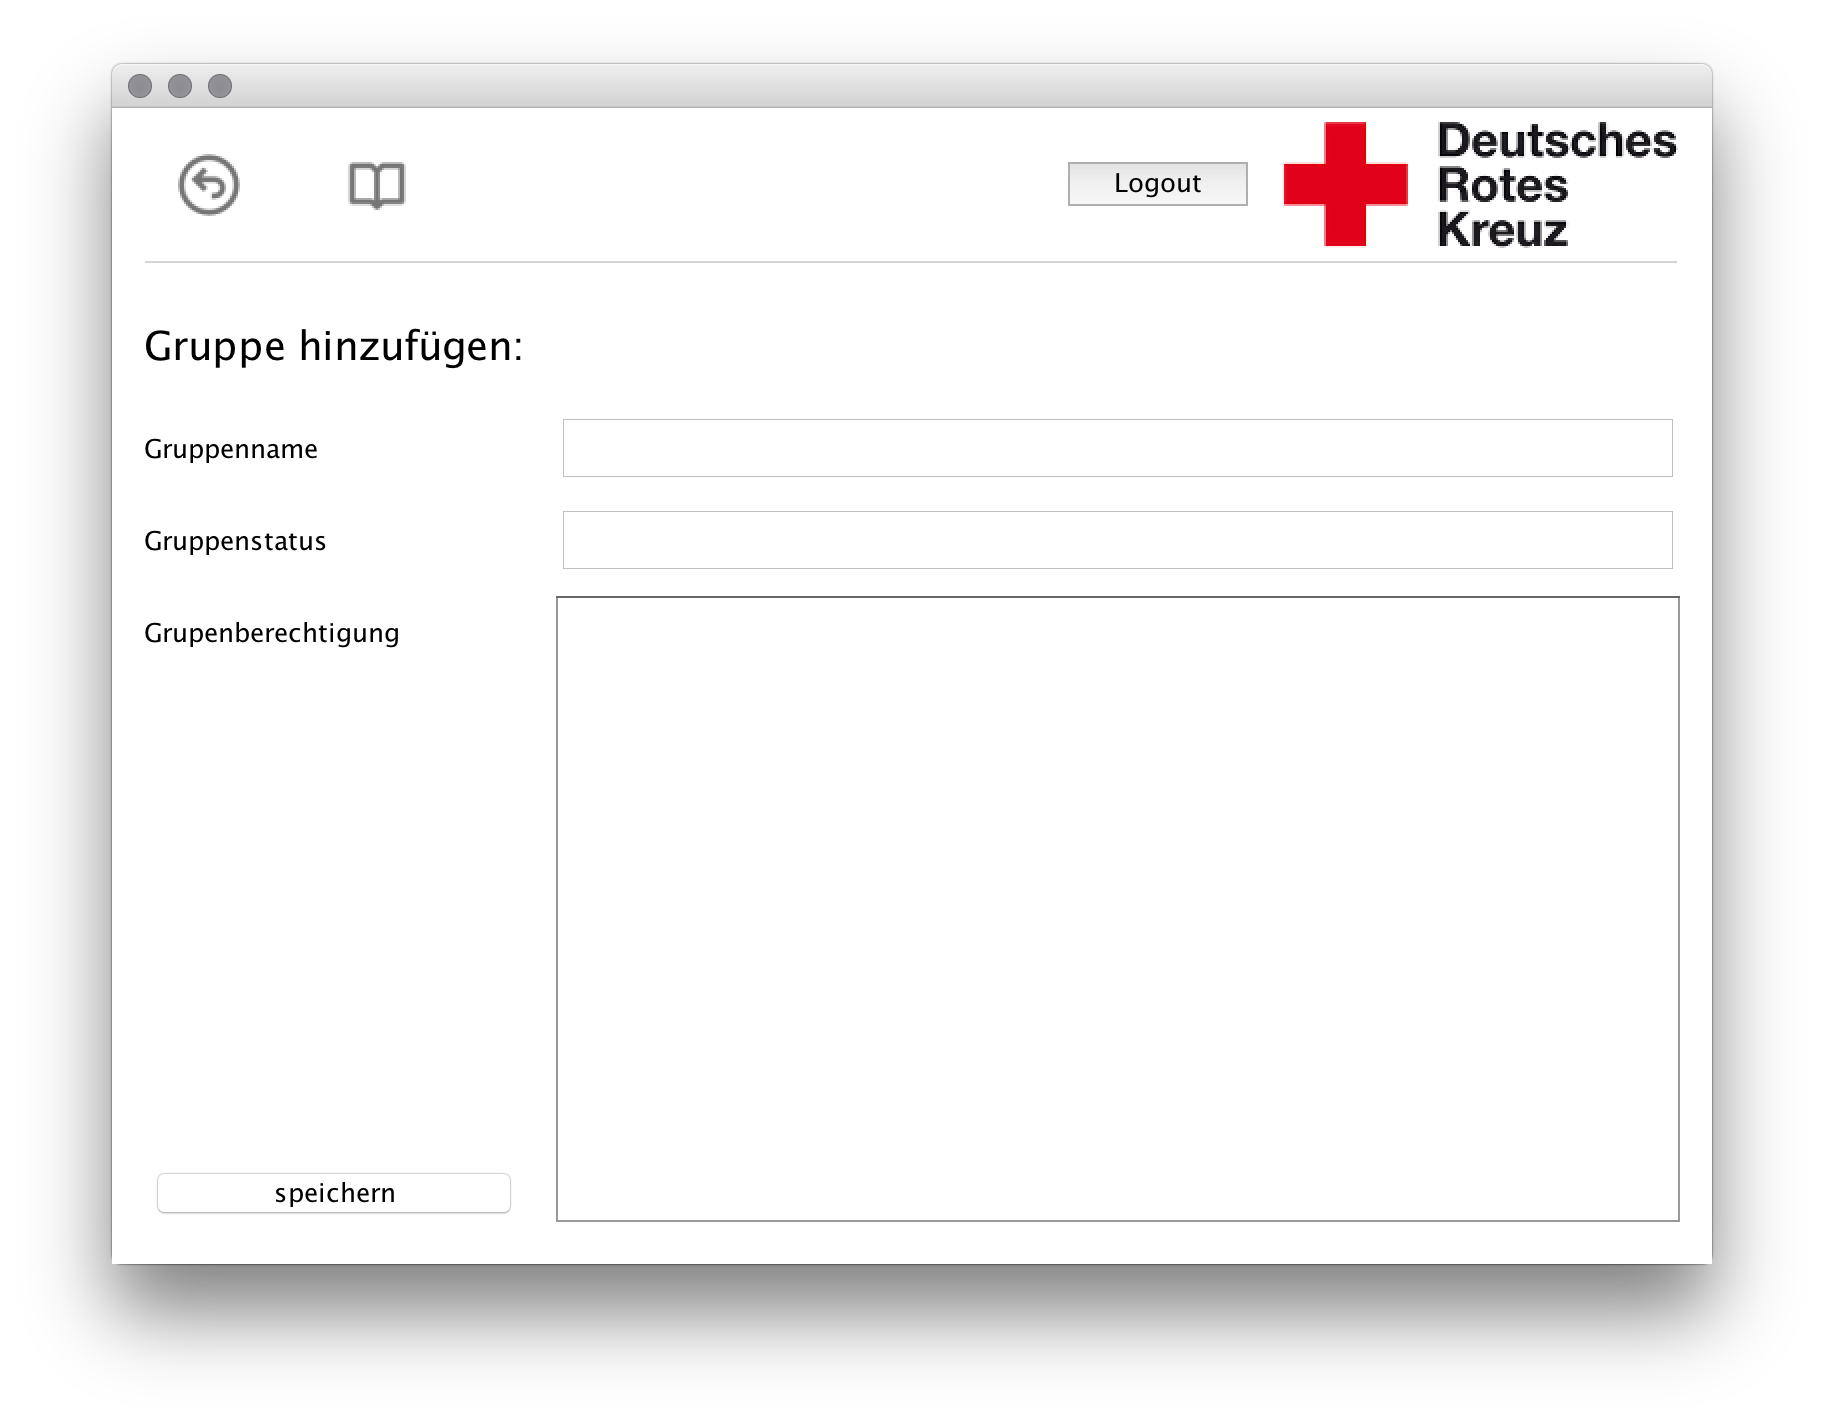
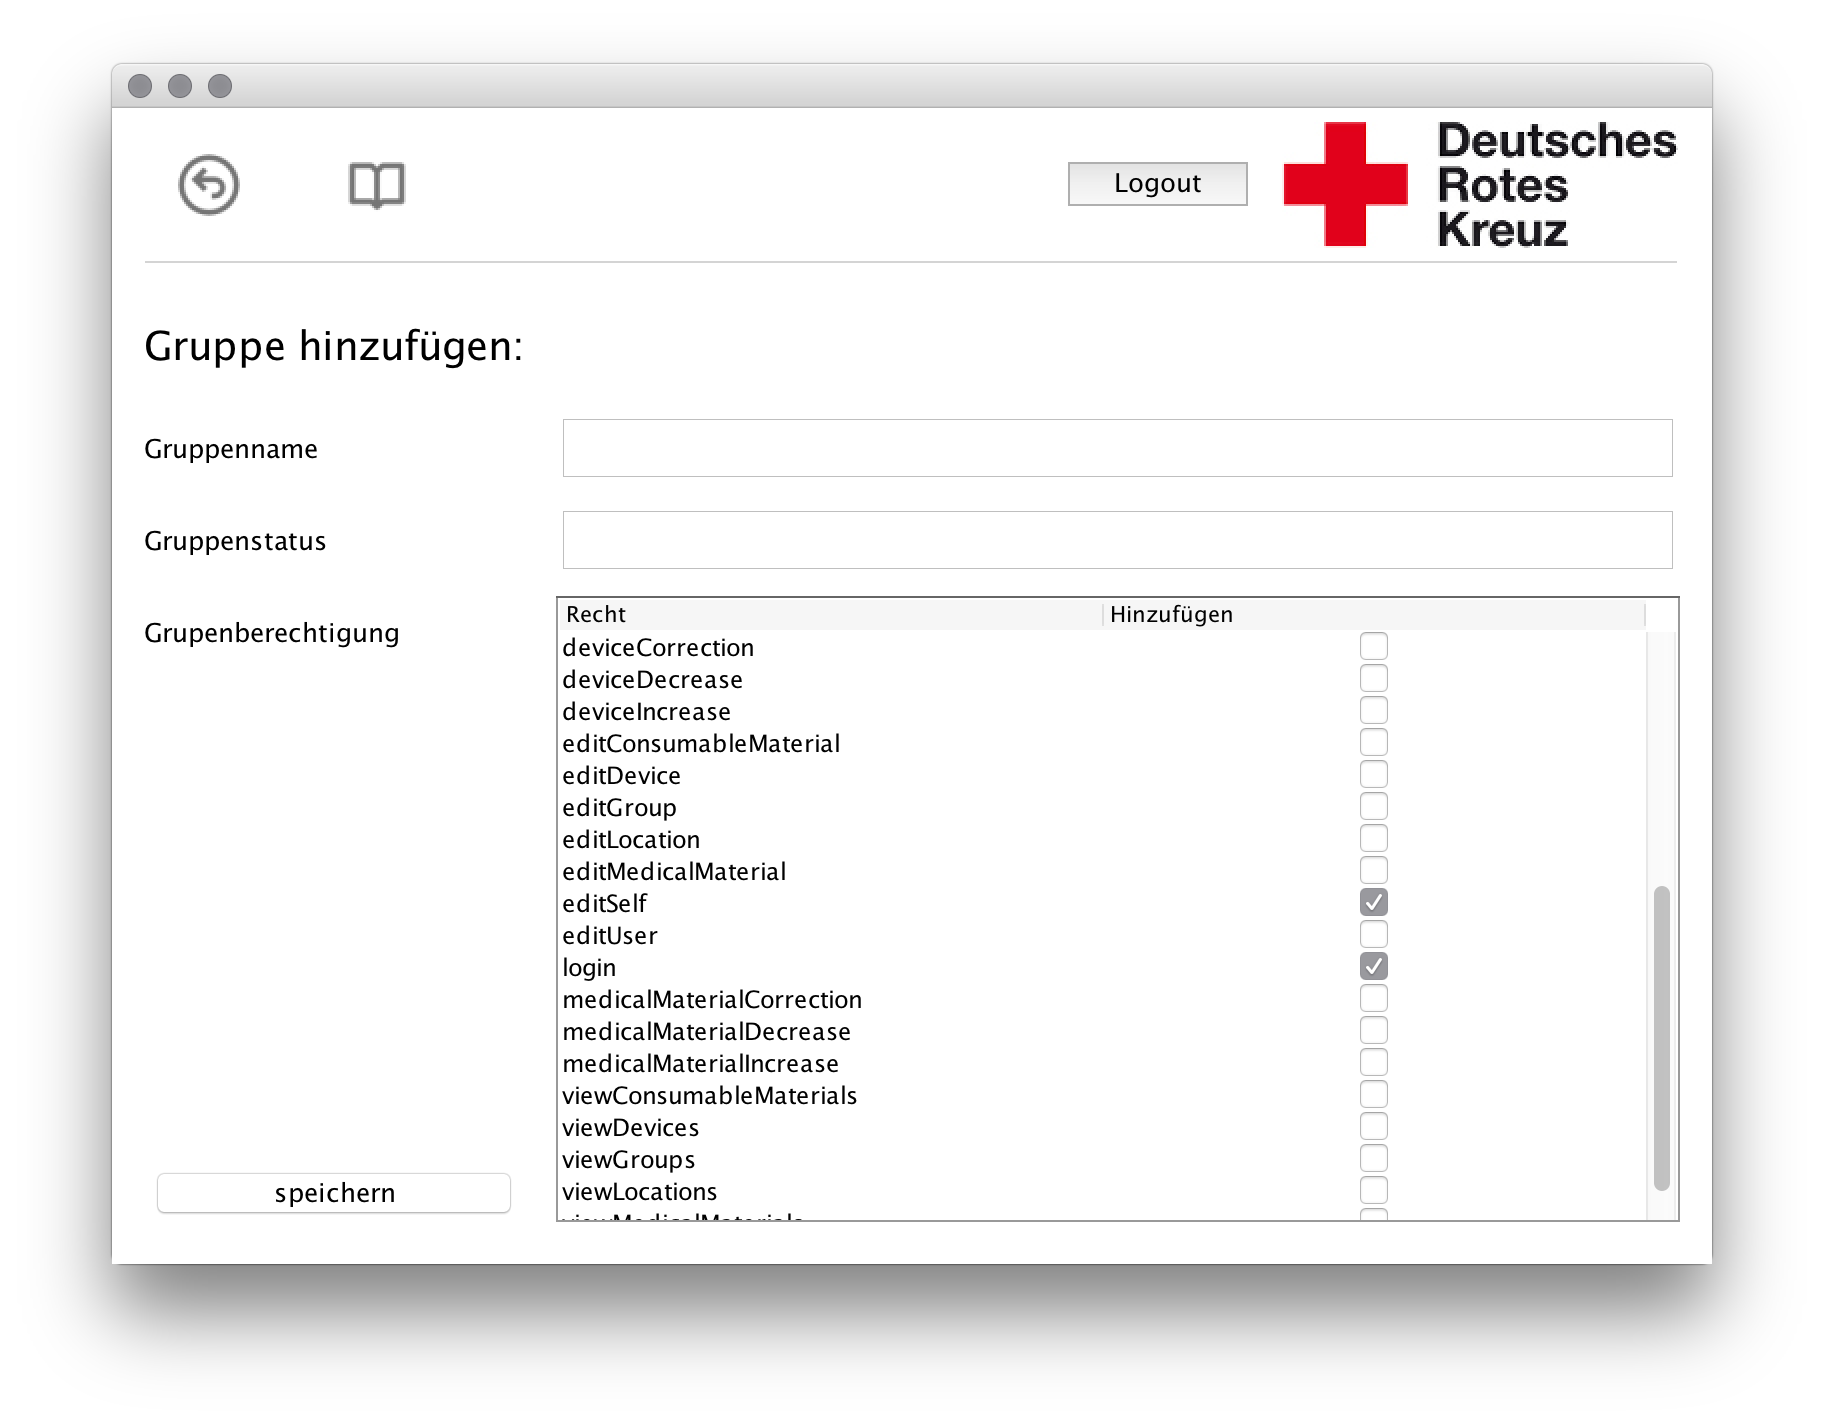
Create Users and Groups Presenter looks fine, but doesnt work yet

Changed region(s): [[0.3125, 0.4326, 0.4688, 0.8652], [0.9062, 0.618, 0.9375, 0.8343], [0.75, 0.618, 0.7812, 0.7107]]

diff --git a/source/stockManagement-desktop/src/presenter/data/AddPresenter.java b/source/stockManagement-desktop/src/presenter/data/AddPresenter.java
@@ -1,6 +1,12 @@
 package presenter.data;
+import model.DatabaseReadManager;
 import model.DatabaseWriteManager;
+import model.UserManager;
 import model.databaseObjects.DatabaseObject;
+import model.databaseObjects.accessControl.Group;
+import model.databaseObjects.accessControl.GroupRight;
+import model.databaseObjects.accessControl.User;
+import model.databaseObjects.environment.Location;
 import model.databaseObjects.stockObjects.ConsumableMaterial;
 import model.databaseObjects.stockObjects.Device;
 import model.databaseObjects.stockObjects.MedicalMaterial;
@@ -8,10 +14,12 @@ import model.databaseObjects.stockObjects.StockObject;
 import presenter.Presenter;
 
 import javax.swing.*;
+import javax.swing.table.DefaultTableModel;
 import java.awt.*;
 import java.awt.event.ActionEvent;
 import java.awt.event.KeyAdapter;
 import java.awt.event.KeyEvent;
+import java.security.NoSuchAlgorithmException;
 import java.text.DecimalFormat;
 import java.text.ParseException;
 
@@ -23,6 +31,7 @@ public class AddPresenter extends Presenter {
 	private JTextField textField2;
 	private JTextField textField3;
 	private JTextField textField4;
+	private JTextField textField5;
 	/** Areas **/
 	private JTextArea textArea;
 	private JTable table;
@@ -323,17 +332,29 @@ public class AddPresenter extends Presenter {
 
 	private void setupUserMenuItem() {
 		/******** Labels ********/
-		JLabel lblBenutzername = new JLabel("Benutzername");
-		lblBenutzername.setBounds(leftPadding, contentY+(lineHeight+smallSpacing)*0, leftSideMenuWidth,lineHeight);
-		frame.getContentPane().add(lblBenutzername);
+		JLabel usernameLabel = new JLabel("Benutzername");
+		usernameLabel.setBounds(leftPadding, contentY+(lineHeight+smallSpacing)*0, leftSideMenuWidth,lineHeight);
+		frame.getContentPane().add(usernameLabel);
 
-		JLabel lblPasswort = new JLabel("Passwort");
-		lblPasswort.setBounds(leftPadding, contentY+(lineHeight+smallSpacing)*1, leftSideMenuWidth,lineHeight);
-		frame.getContentPane().add(lblPasswort);
+		JLabel firstNameLabel = new JLabel("Vorname");
+		firstNameLabel.setBounds(leftPadding, contentY+(lineHeight+smallSpacing)*1, leftSideMenuWidth, lineHeight);
+		frame.getContentPane().add(firstNameLabel);
 
-		JLabel lblGruppe = new JLabel("Gruppe");
-		lblGruppe.setBounds(leftPadding, contentY+(lineHeight+smallSpacing)*2, leftSideMenuWidth,lineHeight);
-		frame.getContentPane().add(lblGruppe);
+		JLabel nameLabel = new JLabel("Name");
+		nameLabel.setBounds(leftPadding, contentY+(lineHeight+smallSpacing)*2, leftSideMenuWidth, lineHeight);
+		frame.getContentPane().add(nameLabel);
+
+		JLabel mailLabel = new JLabel("E-Mail");
+		mailLabel.setBounds(leftPadding, contentY+(lineHeight+smallSpacing)*3, leftSideMenuWidth, lineHeight);
+		frame.getContentPane().add(mailLabel);
+
+		JLabel passwordLabel = new JLabel("Passwort");
+		passwordLabel.setBounds(leftPadding, contentY+(lineHeight+smallSpacing)*4, leftSideMenuWidth, lineHeight);
+		frame.getContentPane().add(passwordLabel);
+
+		JLabel groupLabel = new JLabel("Gruppe");
+		groupLabel.setBounds(leftPadding, contentY+(lineHeight+smallSpacing)*5, leftSideMenuWidth, lineHeight);
+		frame.getContentPane().add(groupLabel);
 
 		/******** Eingabe ********/
 		this.textField1 = new JTextField();
@@ -346,12 +367,46 @@ public class AddPresenter extends Presenter {
 		frame.getContentPane().add(this.textField2);
 		this.textField2.setColumns(10);
 
-		int calculatedTextAreaHeight = displayAreaHeight - (contentY+(lineHeight+smallSpacing)*2);
-		JScrollPane scrollPane = new JScrollPane();
-		scrollPane.setBounds(leftPadding+leftSideMenuWidth+spacing, contentY+(lineHeight+smallSpacing)*2, displayAreaWidth-(leftSideMenuWidth+spacing),calculatedTextAreaHeight);
-		this.frame.getContentPane().add(scrollPane);
-		this.table = new JTable();
+		this.textField3 = new JTextField();
+		this.textField3.setBounds(leftPadding+leftSideMenuWidth+spacing, contentY+(lineHeight+smallSpacing)*2, displayAreaWidth-(leftSideMenuWidth+spacing),lineHeight);
+		frame.getContentPane().add(this.textField3);
+		this.textField3.setColumns(10);
 
+		this.textField4 = new JTextField();
+		this.textField4.setBounds(leftPadding+leftSideMenuWidth+spacing, contentY+(lineHeight+smallSpacing)*3, displayAreaWidth-(leftSideMenuWidth+spacing),lineHeight);
+		frame.getContentPane().add(this.textField4);
+		this.textField4.setColumns(10);
+
+		this.textField5 = new JTextField();
+		this.textField5.setBounds(leftPadding+leftSideMenuWidth+spacing, contentY+(lineHeight+smallSpacing)*4, displayAreaWidth-(leftSideMenuWidth+spacing),lineHeight);
+		frame.getContentPane().add(this.textField5);
+		this.textField5.setColumns(10);
+
+		int calculatedTextAreaHeight = displayAreaHeight - (contentY+(lineHeight+smallSpacing)*5);
+		JScrollPane scrollPane = new JScrollPane();
+		scrollPane.setBounds(leftPadding+leftSideMenuWidth+spacing, contentY+(lineHeight+smallSpacing)*5, displayAreaWidth-(leftSideMenuWidth+spacing),calculatedTextAreaHeight);
+		this.frame.getContentPane().add(scrollPane);
+		this.table = new JTable() {
+			public boolean isCellEditable(int row, int column) {
+				return false;
+			};
+		};
+		Object columnNames[] = { "Gruppe", "Hinzufügen"};
+		DefaultTableModel model = new DefaultTableModel(columnNames, 0);
+		Group[] groups = DatabaseReadManager.getGroups();
+		if (groups != null) {
+			for (Group group : groups) {
+				if (group.id == 1) {
+					Object row[] = { group.title,  true };
+					model.addRow(row);
+				} else {
+					Object row[] = { group.title,  false };
+					model.addRow(row);
+				}
+			}
+		}
+		this.table.setModel(model);
+		this.table.getColumnModel().getColumn(1).setCellRenderer(this.table.getDefaultRenderer(Boolean.class));
 		scrollPane.setViewportView(this.table);
 
 		/******** Buttons ********/
@@ -390,8 +445,27 @@ public class AddPresenter extends Presenter {
 		JScrollPane scrollPane = new JScrollPane();
 		scrollPane.setBounds(leftPadding+leftSideMenuWidth+spacing, contentY+(lineHeight+smallSpacing)*2, displayAreaWidth-(leftSideMenuWidth+spacing),calculatedTextAreaHeight);
 		this.frame.getContentPane().add(scrollPane);
-		this.table = new JTable();
-
+		this.table = new JTable() {
+			public boolean isCellEditable(int row, int column) {
+				return false;
+			};
+		};
+		Object columnNames[] = { "Recht", "Hinzufügen"};
+		DefaultTableModel model = new DefaultTableModel(columnNames, 0);
+		GroupRight[] groupRights = DatabaseReadManager.getGroupRights();
+		if (groupRights != null) {
+			for (GroupRight groupRight : groupRights) {
+				if (groupRight.title.equals("login") || groupRight.title.equals("editSelf")) {
+					Object row[] = { groupRight.title,  true };
+					model.addRow(row);
+				} else {
+					Object row[] = { groupRight.title,  false };
+					model.addRow(row);
+				}
+			}
+		}
+		this.table.setModel(model);
+		this.table.getColumnModel().getColumn(1).setCellRenderer(this.table.getDefaultRenderer(Boolean.class));
 		scrollPane.setViewportView(this.table);
 
 		/******** Buttons ********/
@@ -404,7 +478,7 @@ public class AddPresenter extends Presenter {
 	private Boolean saveButtonValidation() {
 		switch (this.modificationType) {
 			case deviceMenuItem:
-				if (this.textField2.getText().length() > 0 && this.textField3.getText().length() > 0) {
+				if (this.textField1.getText().length() > 0 && this.textField2.getText().length() > 0 && this.textField3.getText().length() > 0) {
 					DecimalFormat decimalFormat = new DecimalFormat("#");
 					try {
 						int mtkIntervall = decimalFormat.parse(this.textField2.getText()).intValue();
@@ -412,13 +486,16 @@ public class AddPresenter extends Presenter {
 						Device device = new Device(0,this.textField1.getText(), this.textArea.getText(),false, StockObject.StockObjectType.device,0, mtkIntervall ,stkIntervall);
 						return DatabaseWriteManager.createObject(device);
 					} catch (ParseException e) {
-						// System.out.println(e.getMessage());
+						// Cant parse Textfields to int
 						return false;
 					}
+				} else {
+					// required Textfields are empty
 				}
+
 				return false;
 			case medicalMaterialMenuItem:
-				if (this.textField2.getText().length() > 0 && this.textField3.getText().length() > 0 && this.textField4.getText().length() > 0) {
+				if (this.textField1.getText().length() > 0 && this.textField2.getText().length() > 0 && this.textField3.getText().length() > 0 && this.textField4.getText().length() > 0) {
 					DecimalFormat decimalFormat = new DecimalFormat("#");
 					try {
 						int batchSize = decimalFormat.parse(this.textField2.getText()).intValue();
@@ -427,13 +504,15 @@ public class AddPresenter extends Presenter {
 						MedicalMaterial medicalMaterial = new MedicalMaterial(0,this.textField1.getText(), this.textArea.getText(), false, StockObject.StockObjectType.medicalMaterial, 0, batchSize, minimumStock ,quotaStock );
 						return DatabaseWriteManager.createObject(medicalMaterial);
 					} catch (ParseException e) {
-						// System.out.println(e.getMessage());
+						// Cant parse Textfields to int
 						return false;
 					}
+				} else {
+					// required Textfields are empty
 				}
-				return true;
+				return false;
 			case consumableMaterialMenuItem:
-				if (this.textField2.getText().length() > 0 && this.textField3.getText().length() > 0 && this.textField4.getText().length() > 0) {
+				if (this.textField1.getText().length() > 0 && this.textField2.getText().length() > 0 && this.textField3.getText().length() > 0 && this.textField4.getText().length() > 0) {
 					DecimalFormat decimalFormat = new DecimalFormat("#");
 					try {
 						int batchSize = decimalFormat.parse(this.textField2.getText()).intValue();
@@ -442,17 +521,50 @@ public class AddPresenter extends Presenter {
 						ConsumableMaterial consumableMaterial = new ConsumableMaterial(0,this.textField1.getText(), this.textArea.getText(), false, StockObject.StockObjectType.medicalMaterial, 0, batchSize, minimumStock ,quotaStock );
 						return DatabaseWriteManager.createObject(consumableMaterial);
 					} catch (ParseException e) {
-						// System.out.println(e.getMessage());
+						// Cant parse Textfields to int
 						return false;
 					}
+				} else {
+					// required Textfields are empty
 				}
-				return true;
+				return false;
 			case locationMenuItem:
-				return true;
+				if (this.textField1.getText().length() > 0) {
+					Location location = new Location(0, this.textField1.getText());
+					return DatabaseWriteManager.createObject(location);
+				} else {
+					// required Textfields are empty
+				}
+				return false;
 			case userMenuItem:
-				return true;
+				if (this.textField1.getText().length() > 0
+						&& this.textField2.getText().length() > 0
+						&& this.textField3.getText().length() > 0
+						&& this.textField4.getText().length() > 0
+						&& this.textField5.getText().length() > 0) {
+					UserManager userManager = new UserManager();
+					try {
+						String passwordHash = userManager.generatePasswordHash(textField5.getText());
+						User user = new User(0, textField1.getText(), textField2.getText(), textField3.getText(), this.textField4.getText(), passwordHash, false);
+						if (DatabaseWriteManager.createObject(user)) {
+							User dbUser = DatabaseReadManager.getUser(this.textField1.getText());
+							if (dbUser != null) {
+								Group[] groups = new Group[]{
+										DatabaseReadManager.getGroup(1)
+								};
+								return DatabaseWriteManager.setGroupsForUser(dbUser, groups);
+							}
+						}
+					} catch (NoSuchAlgorithmException exception) {
+
+					}
+				} else {
+					// required Textfields are empty
+				}
+				return false;
 			case groupMenuItem:
-				return true;
+
+				return false;
 		}
 		return false;
 	}
@@ -464,7 +576,7 @@ public class AddPresenter extends Presenter {
 			if (this.saveButtonValidation()) {
 				this.showPreviousPresenter();
 			} else {
-				// TODO: Show Popup -> cant't be saved.
+				// Can't be saved, unique field with same value or db connection error.
 			}
 		}
 	}

diff --git a/source/stockManagement-desktop/src/model/UserManager.java b/source/stockManagement-desktop/src/model/UserManager.java
@@ -101,7 +101,7 @@ public class UserManager {
 	 * @param password String
 	 * @return String
 	 */
-	private String generatePasswordHash(String password) throws NoSuchAlgorithmException {
+	public String generatePasswordHash(String password) throws NoSuchAlgorithmException {
 		// Create Instance of MessageDigest with MD5 Hash Initializer
 		MessageDigest messageDigest = MessageDigest.getInstance("MD5");
         // Cast String to md5 Byte Array
